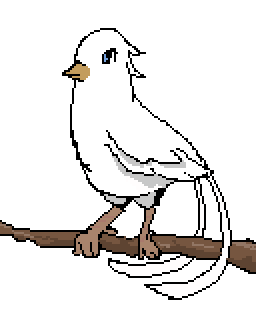
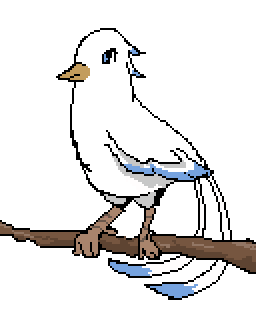
Added new graphic for Sereno and fixed temp redirect

diff --git a/home.py b/home.py
@@ -215,7 +215,7 @@ def firstPet():
 
 @app.route("/returnpet", methods=["GET", "`POST"])
 def returnpet():
-    return render_template("pet.html")
+    return redirect(url_for("pet"))
 
 # @app.route("/namepet", methods=["POST"])
 # def returnpet():
